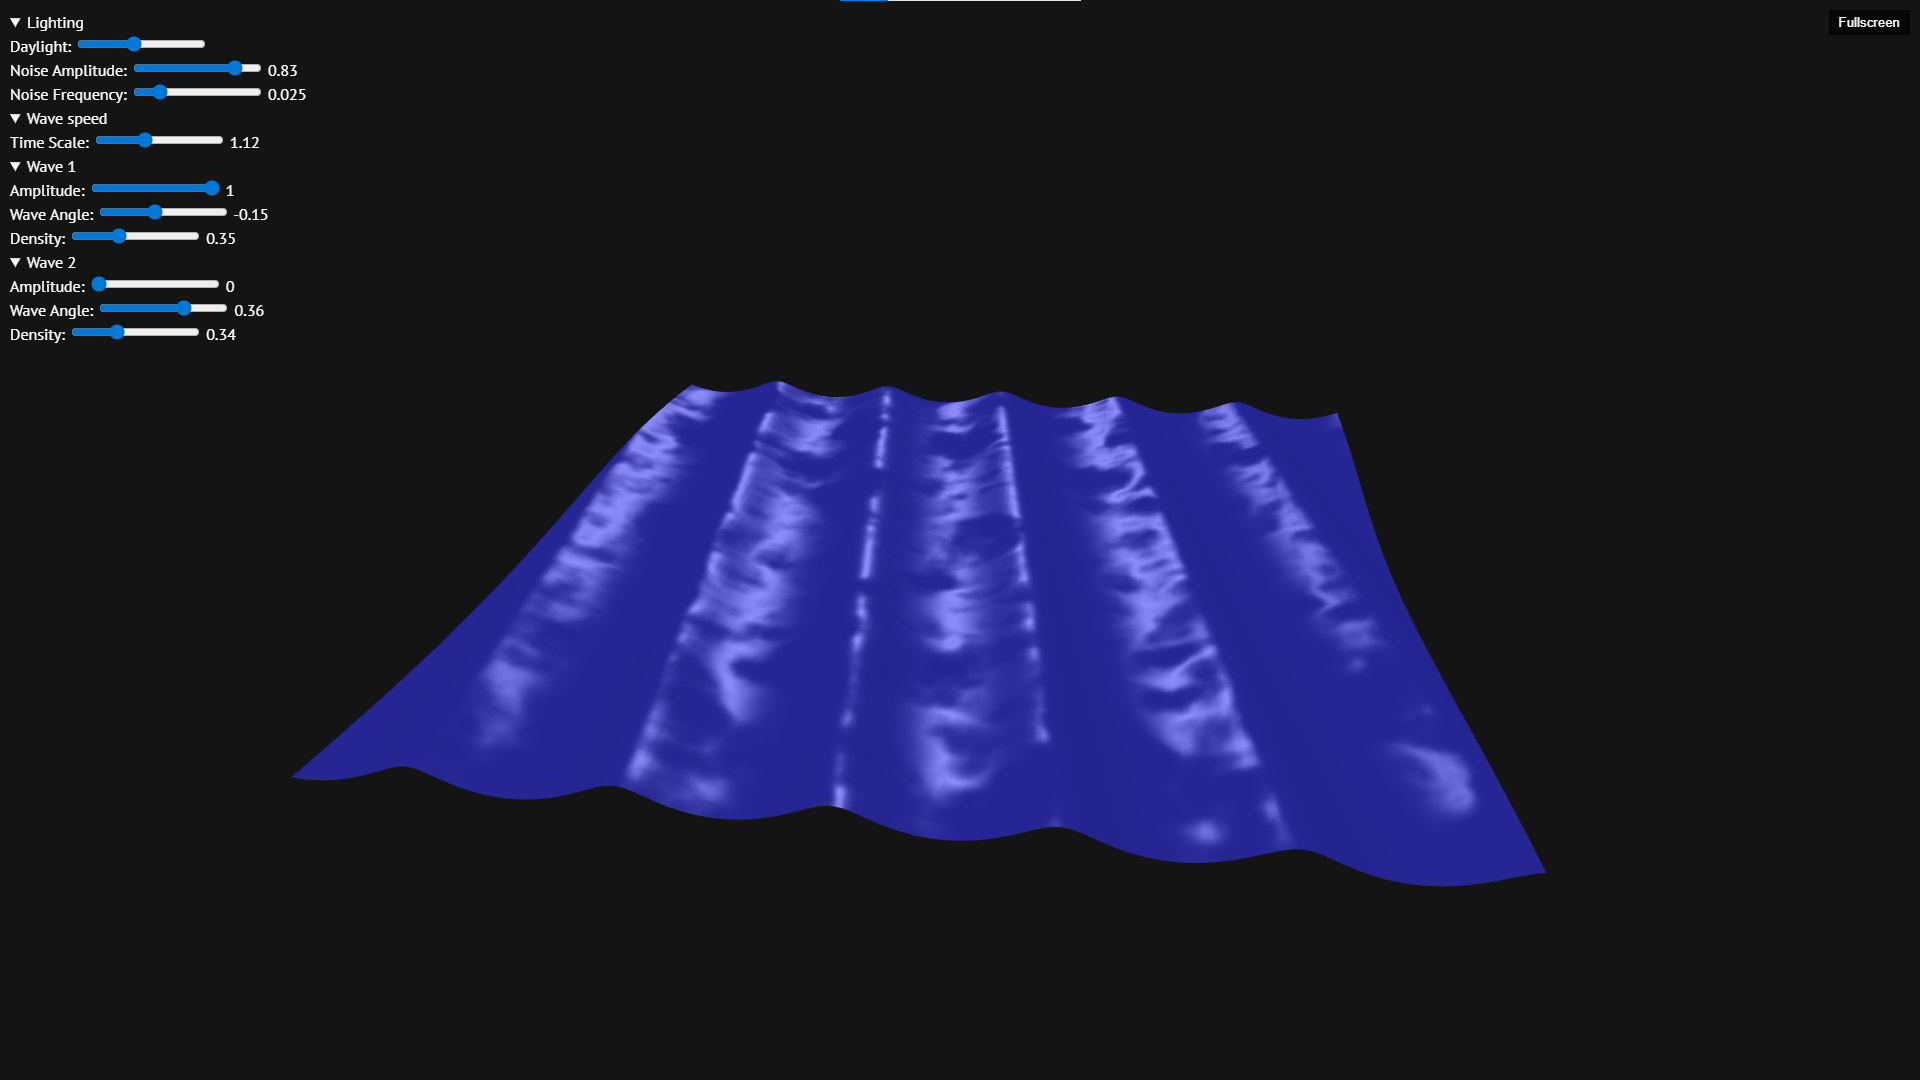
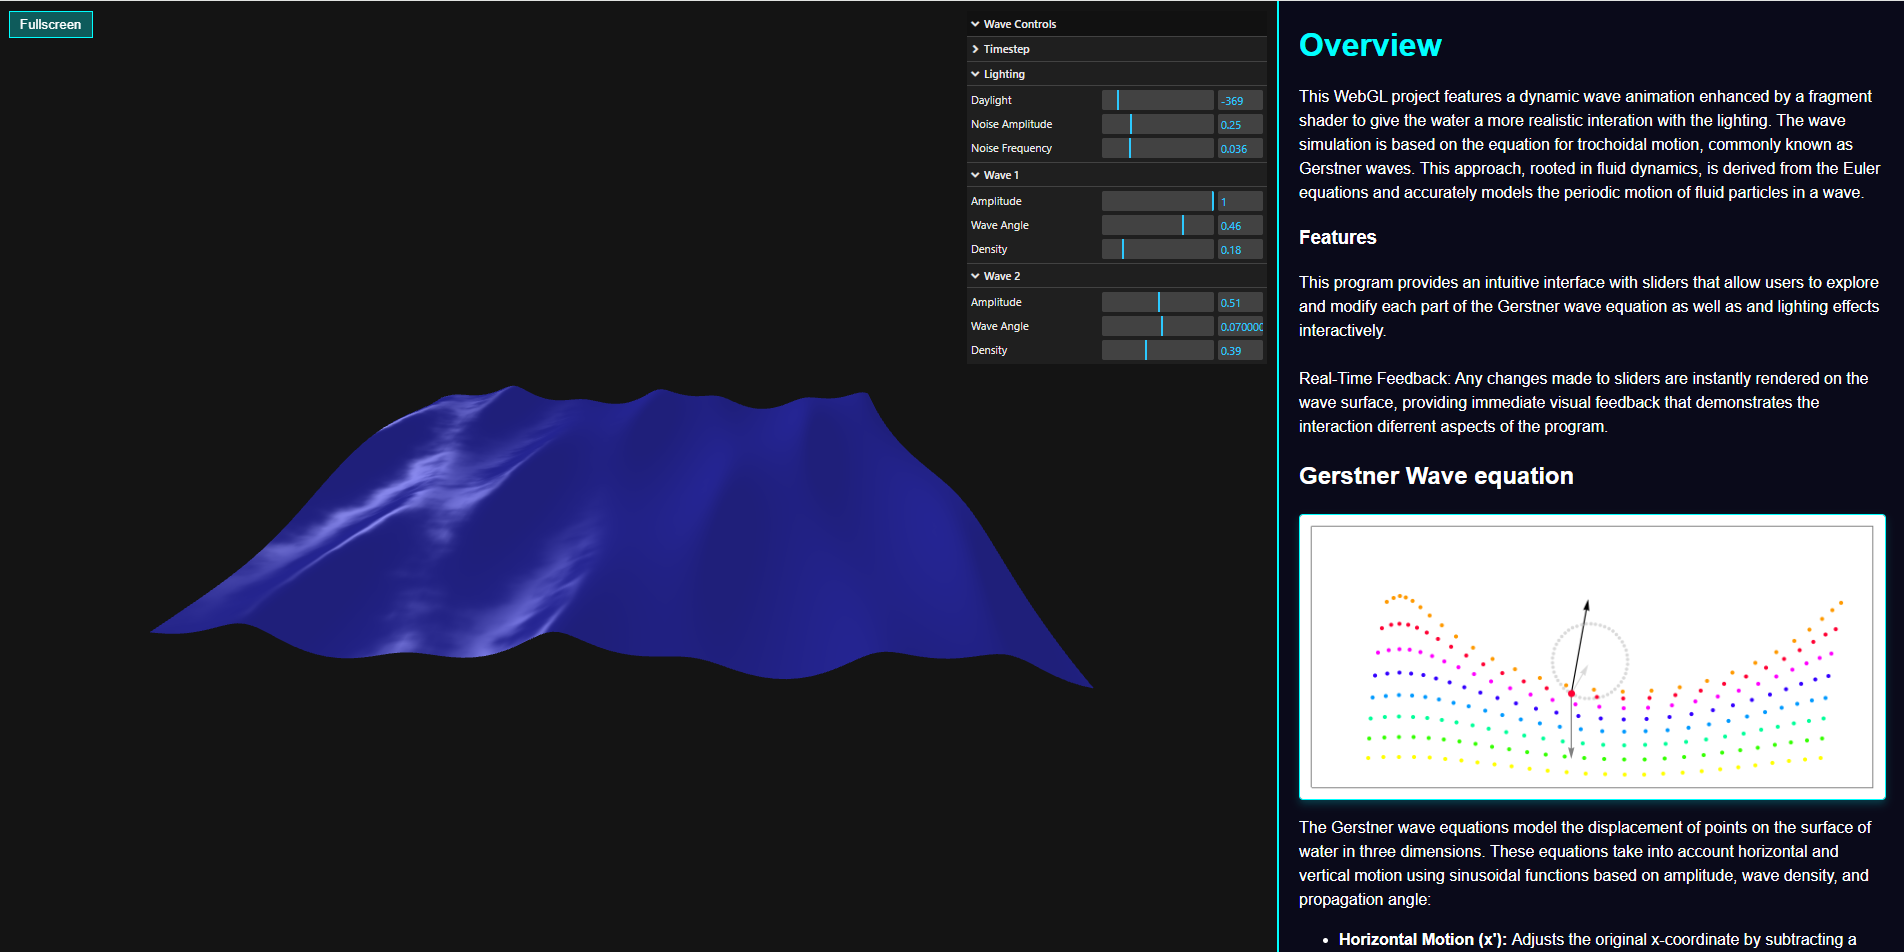
updated projects

diff --git a/src/components/Modal/folioModal/Folio.jsx b/src/components/Modal/folioModal/Folio.jsx
@@ -97,6 +97,19 @@ function ProjectCard ({project}) {
                     {project.media && renderMedia()}
                     
                     <p className='full-description'>{project.fullDesc}</p>
+
+                    <div className='project-links'>
+                        {project.link && (
+                            <a href={project.link} target="_blank" rel="noopener noreferrer" className="project-link">
+                                Project Page
+                            </a>
+                        )}
+                        {project.github && (
+                            <a href={project.github} target="_blank" rel="noopener noreferrer" className="project-link">
+                                GitHub Repository
+                            </a>
+                        )}
+                    </div>
                     
                     <div className='tech-stack'>
                         {project.technologies && (
@@ -110,19 +123,6 @@ function ProjectCard ({project}) {
                             </>
                         )}
                     </div>
-                    
-                    <div className='project-links'>
-                        {project.link && (
-                            <a href={project.link} target="_blank" rel="noopener noreferrer" className="project-link">
-                                View Project Details
-                            </a>
-                        )}
-                        {project.github && (
-                            <a href={project.github} target="_blank" rel="noopener noreferrer" className="project-link">
-                                GitHub Repository
-                            </a>
-                        )}
-                    </div>
                 </div>
             </div>
         </div>
@@ -131,6 +131,19 @@ function ProjectCard ({project}) {
 
 function FolioModal({ onClose }){
     const projects = [
+        {
+            id: 0,
+            title: "Neon Pinball",
+            shortDesc: "Pinball game using Ray Marching and Signed Distance Fields",
+            fullDesc: "Work completed with Basant Khalil for Computer Graphics: Animation and Simulation at Stanford University. A neon-themed pinball game built in p5.js using ray-marching and signed distance functions (SDFs) for physics and collision detection. Features interactive flippers, bumpers, and slingshots, with glowing visuals, particle effects, combo scoring, and reactive sound for a fast-paced, arcade feel. ",
+            image: "./imgs/pinball.jpg",
+            technologies: ["Unity", "Magic Leap 2",],
+            link: "https://jamesonyee.github.io/pinball/",
+            media: {
+                type: "youtube",
+                content: "https://www.youtube.com/watch?v=a_SF1dSaibM"
+            }
+        },
         {
             id: 1,
             title: "Auto Turntable Plugin",
@@ -162,7 +175,6 @@ function FolioModal({ onClose }){
             shortDesc: "A realistic flight simulation experience",
             fullDesc: "This project is a custom flight simulation experience built in Unreal Engine 5, combining real-time geospatial data with accurate flight dynamics. Using the JSBSim plugin, the simulator models realistic aircraft behavior, while Cesium integrates high-resolution 3D terrain and satellite imagery for a truly global environment.",
             image: "./imgs/jet.png",
-            link: "https://jamesonyee.github.io/flightsim",
             technologies: ["Unreal Engine", "Blueprints", "Blender"],
             media: {
                 type: "youtube",
@@ -181,7 +193,6 @@ function FolioModal({ onClose }){
                 content: "https://www.youtube.com/watch?v=epFFwjtkQlc" // Example video embed
             }
         },
-        
     ]
 
         return (
